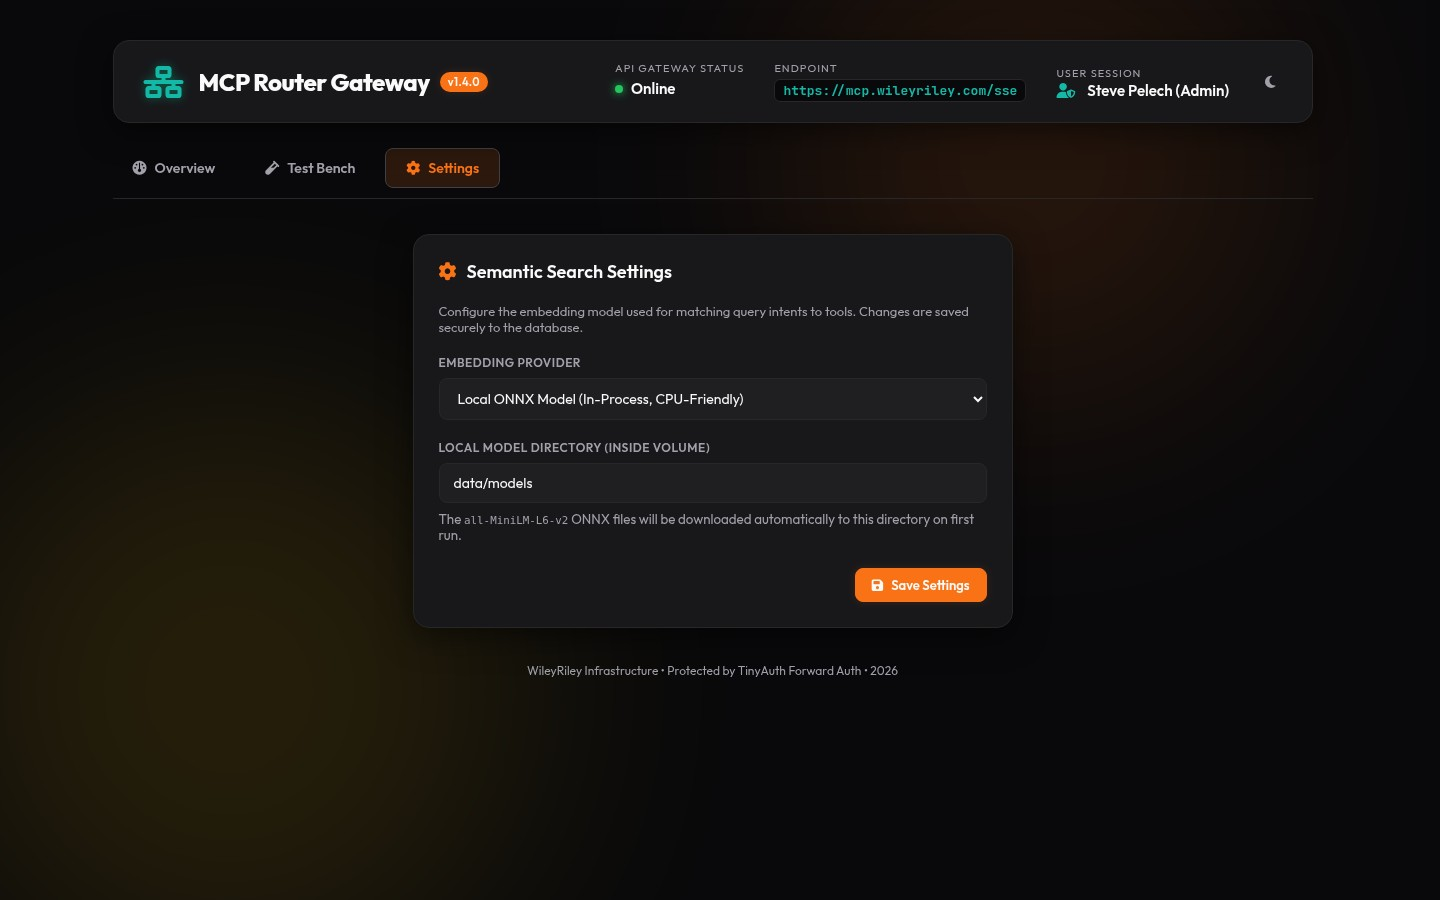
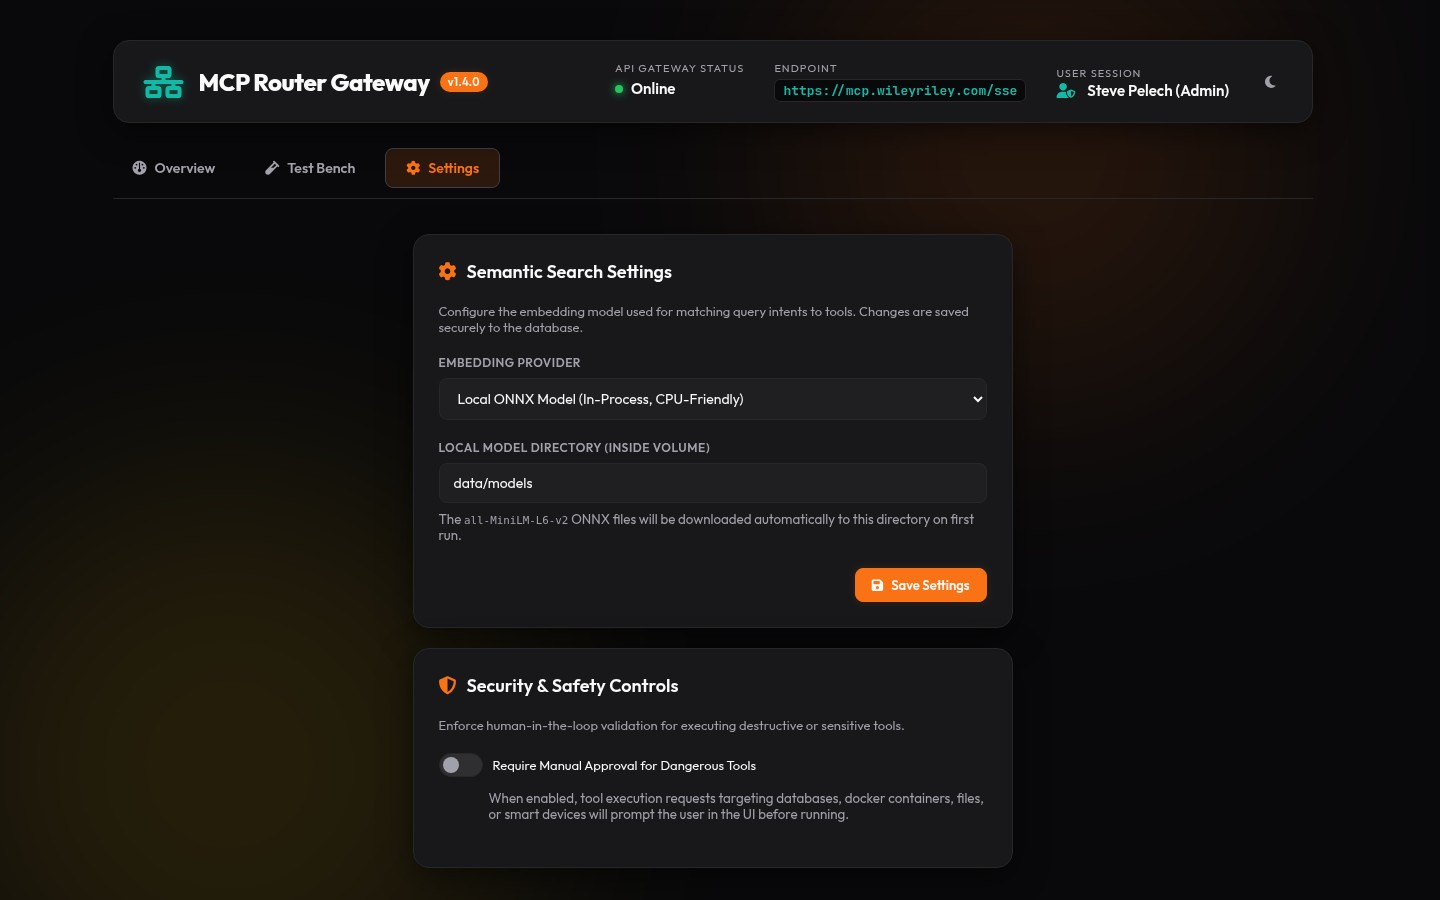
Bump version to 1.5.0, update README documentation, and regenerate live screenshots

diff --git a/README.md b/README.md
@@ -199,10 +199,22 @@ The router seamlessly aggregates the following MCP protocol features across all 
 * **Tools** (`tools/list`, `tools/call`)
   * Tools from backends are automatically prefixed with the `serverId` (e.g. `docker__list_containers`).
   * In Meta-Mode, tools are hidden behind the semantic `search_tools` and `execute_tool` proxy layer.
-* **Resources** (`resources/list`, `resources/read`)
+* **Resources & Templates** (`resources/list`, `resources/read`, `resources/templates/list`)
   * URIs are safely mapped to unique virtual namespaces (e.g., `mcp://plex/resource_path`).
-* **Prompts** (`prompts/list`, `prompts/get`)
-  * Like tools, prompts are transparently prefixed and routed to the correct backend.
+  * Supports local built-in resources (`router://status`, `router://active-servers`, and `router://metrics`).
+  * Parameterized resource templates are fully resolved (e.g., `logs://{server_name}/today` dynamically streams filtered backend logs).
+* **Prompts & Meta-Prompts** (`prompts/list`, `prompts/get`)
+  * Downstream prompts are mapped and transparently prefixed under unified catalogs (`{serverId}__{promptName}`).
+  * Built-in local meta-prompts expose ready-to-run system diagnostics workflows (e.g., `router__diagnose_failure`, `router__route_multi_task`, and `router__audit_permissions`).
+* **Autocompletion** (`completion/complete`)
+  * Supports dynamic arguments and template parameters autocompletion.
+* **Sampling & Request Cancellation**
+  * **Sampling Relay**: Bridges backend `sampling/createMessage` requests back to the client event stream to leverage client-side model orchestration.
+  * **Async Cancellation**: Safely stops ongoing execution using CancellationToken cancellation tokens linked to client `notifications/cancelled` events.
+* **Safety Controls & Telemetry**
+  * **Approval Gateway**: Enabling "Require Manual Approval for Dangerous Tools" inside Settings blocks execution of sensitive/mutative backend commands (databases, docker writes, smart home switches) awaiting user input on the dashboard.
+  * **JSON-RPC Stream Log Inspector**: Collapsible viewer filters system logs from raw Client-Gateway and Gateway-Backend JSON-RPC message frames in real-time.
+  * **Token Estimates**: Telemetry charts record characters-based input/output token approximations and execution latencies.
 * **Notifications & Logging**
   * `logMessage`, `resourceUpdated`, and other backend notifications are asynchronously forwarded directly to connected clients in real time.
 